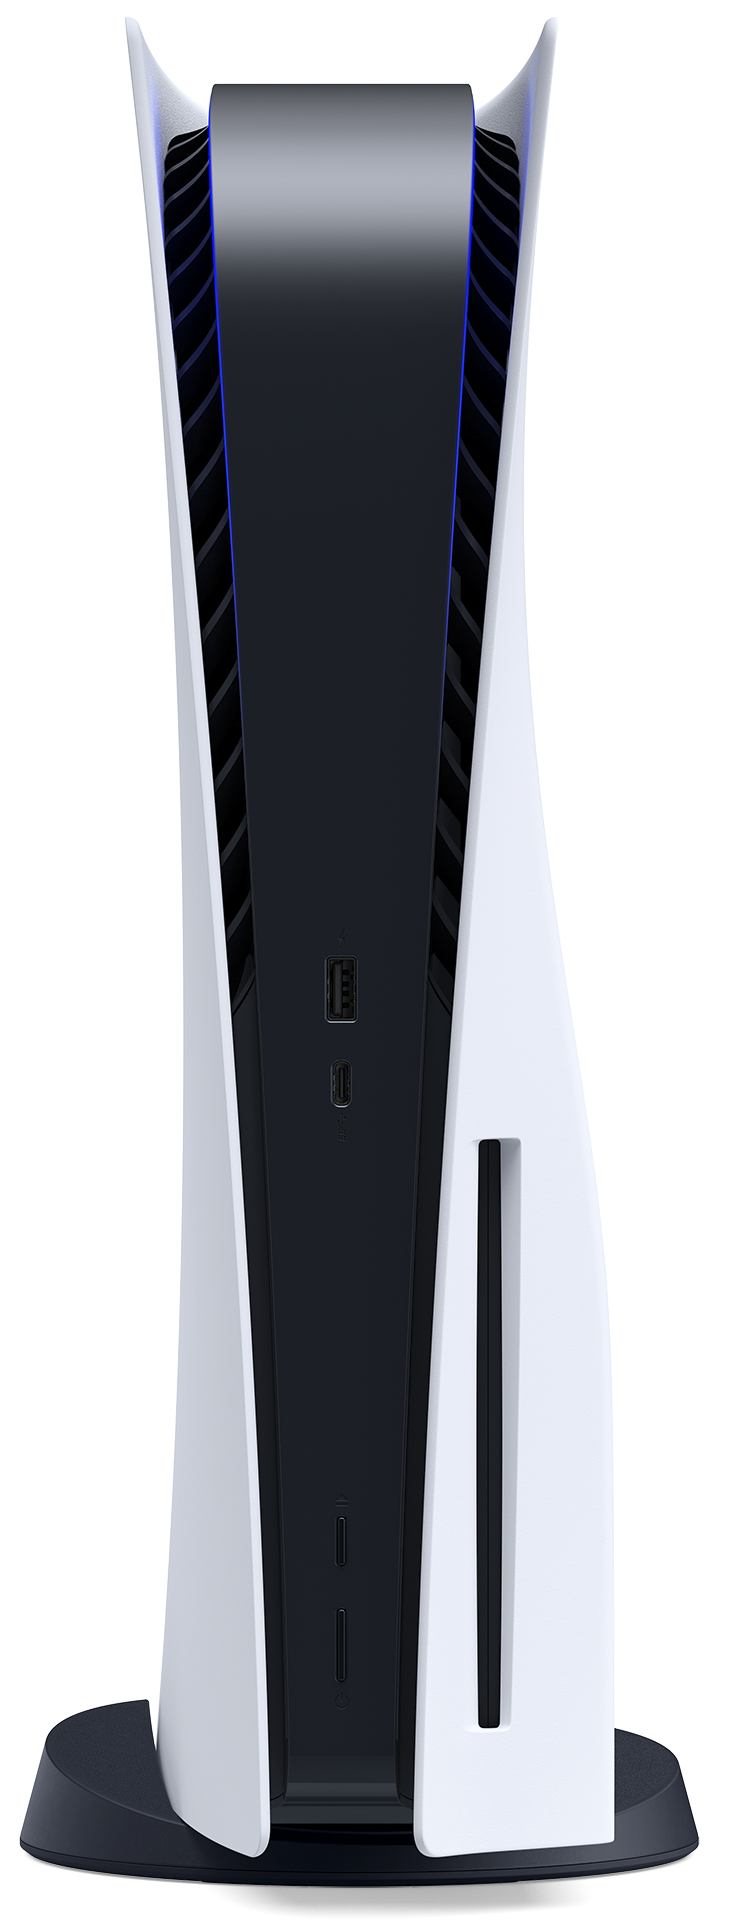
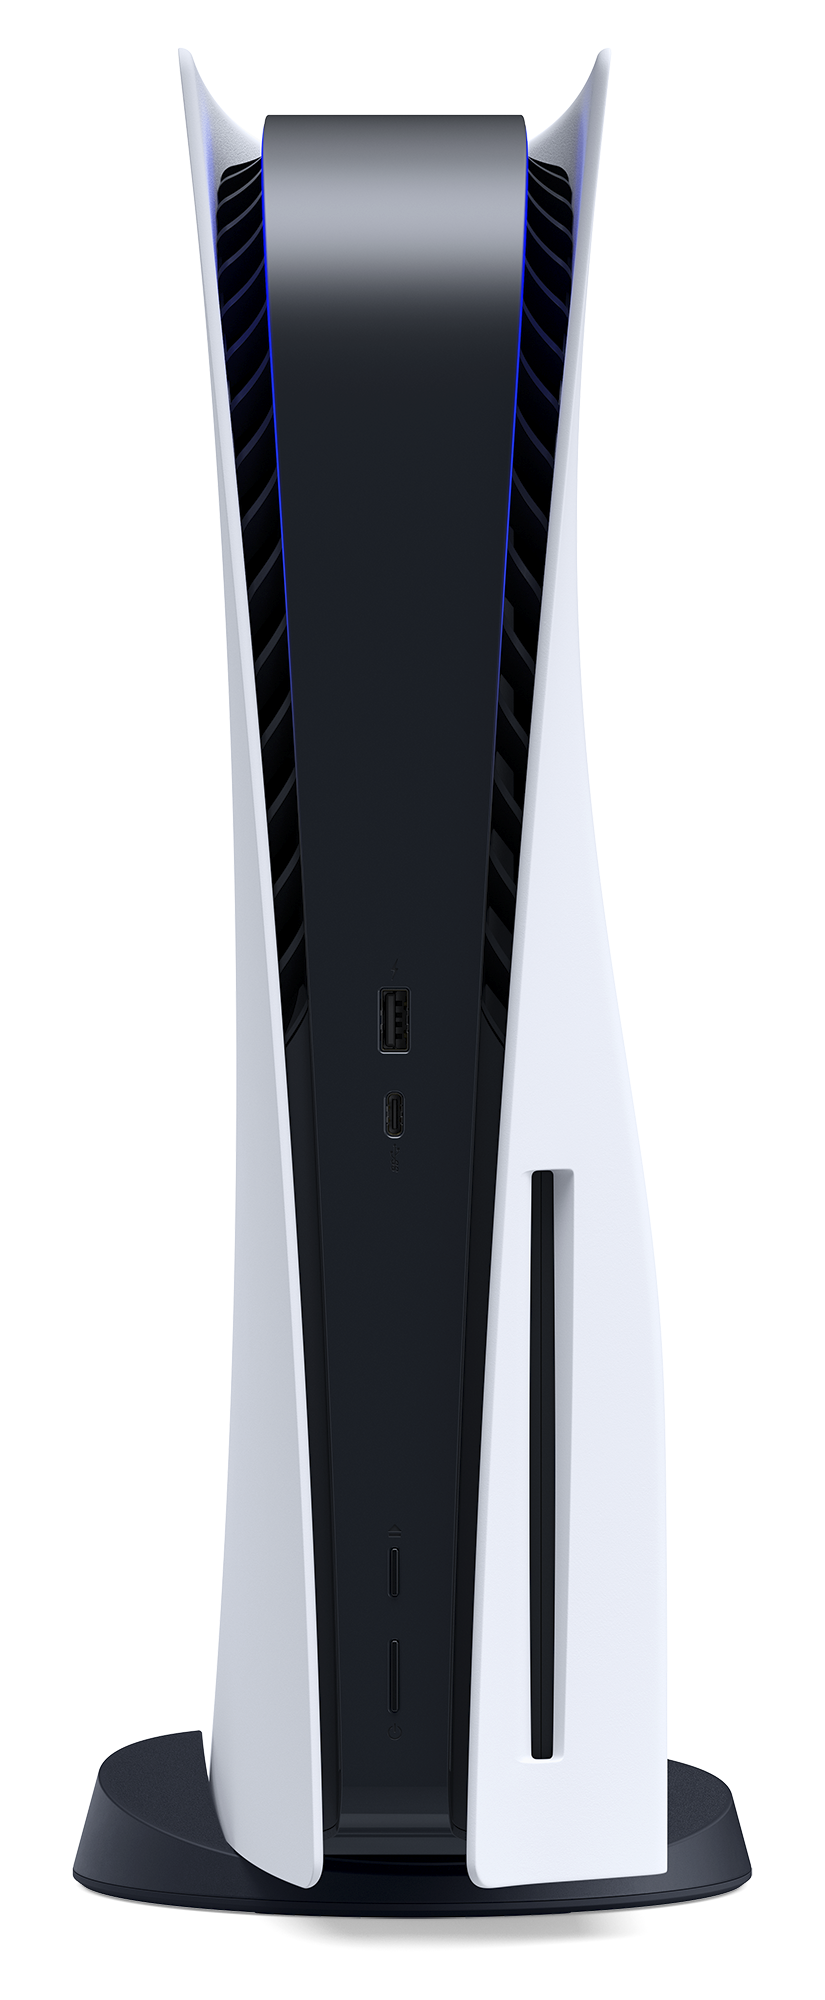
Added buttons to Device page

Changed region(s): [[0.0301, 0.0, 0.9644, 0.9938], [0.4521, 0.4969, 0.5123, 0.5901]]

diff --git a/ASP.NETCoreWebApplication/ClientApp/src/pages/Devices.jsx b/ASP.NETCoreWebApplication/ClientApp/src/pages/Devices.jsx
@@ -1,4 +1,4 @@
-import React from 'react';
+import React, {useState} from 'react';
 import {Section} from "../components/base/Section";
 import Container from "react-bootstrap/Container";
 import {SectionTitle} from "../components/base/SectionTitle";
@@ -6,18 +6,24 @@ import Row from "react-bootstrap/Row";
 import Col from "react-bootstrap/Col";
 import {SectionText} from "../components/base/SectionText";
 import {Paragraph} from "../components/base/Paragraph";
+import {Button} from "../components/base/Button";
 
 
 export const Devices = () => {
+
+    const ps5disk = "ps5disk.png";
+    const ps5digital = "ps5digital.png";
+
+    const [image, setImage] = useState(ps5disk);
 
     return (
         <React.Fragment>
             <Section style={{paddingTop: "60px"}}>
                 <Container>
-                    <Row className="d-flex align-content-center">
+                    <Row className="d-flex justify-content-around mt-5 pt-2">
 
-                        <SectionText className="col-6" center>Playstation®5</SectionText>
-                        <SectionText className="col-6" center>Playstation®5 Digital</SectionText>
+                        <Button outline onClick={() => setImage(ps5disk)}>Playstation®5</Button>
+                        <Button outline onClick={() => setImage(ps5digital)}>Playstation®5 Digital</Button>
                     </Row>
                     <Row>
                         <Col md={7}>
@@ -33,7 +39,7 @@ export const Devices = () => {
                                 </Col>
                                 <Col className="d-flex" md={5} xs={12}>
                                     <div className="device-disk-desktop-view" style={{
-                                        backgroundImage: "url('ps5disk.png')",
+                                        backgroundImage: `url('${image}')`,
                                         width: "100%",
                                         height: "70vh",
                                         backgroundPosition: "top",
@@ -90,7 +96,7 @@ export const Devices = () => {
                         </Col>
                         <Col className="d-flex" md={5} xs={12}>
                             <div className="device-disk-phone-view" style={{
-                                backgroundImage: "url('ps5disk.png')",
+                                backgroundImage: `url('${image}')`,
                                 width: "100%",
                                 height: "126vh",
                                 backgroundPosition: "top",

diff --git a/ASP.NETCoreWebApplication/ClientApp/src/components/base/Button.js b/ASP.NETCoreWebApplication/ClientApp/src/components/base/Button.js
@@ -4,7 +4,7 @@ import PropTypes from "prop-types"
 export const Button = styled.button`
     position: relative;
     background-color: #ffffff;
-    display: flex;
+    display: inline-block;
     justify-content: center;
     align-items: center;
     padding: ${props => (props.outline ? "12px 40px 12px 40px" : "12px 40px 14px 40px")};
@@ -15,7 +15,6 @@ export const Button = styled.button`
     color: ${props => (props.outline ? "#0070D1" : props.disabled ? "#c4c4c4" : "#FFFFFF")};
     font-weight: 500;
     font-size: 1rem;
-    max-width: 180px;
     height: 48px;
     cursor: ${props => (props.disabled ? "arrow" : "pointer")};
     line-height: 0;

diff --git a/ASP.NETCoreWebApplication/ClientApp/src/components/common/GameCard/style.js b/ASP.NETCoreWebApplication/ClientApp/src/components/common/GameCard/style.js
@@ -1,5 +1,5 @@
 import styled from "styled-components";
-import PropTypes, {string} from 'prop-types';
+import PropTypes from 'prop-types';
 
 export const CardWrapper = styled.div`
  position: relative;
@@ -130,8 +130,7 @@ export const Card = styled.div`
     &:hover ${CardContainer} {
     opacity: 1;
     transition: .2s ease;
-    transform: translate3d(0,0px,0);
-    transform: scale(1.05);  
+    transform: translate3d(0,0px,0) scale(1.05);
     }
     
     &:hover ${Hover} {
